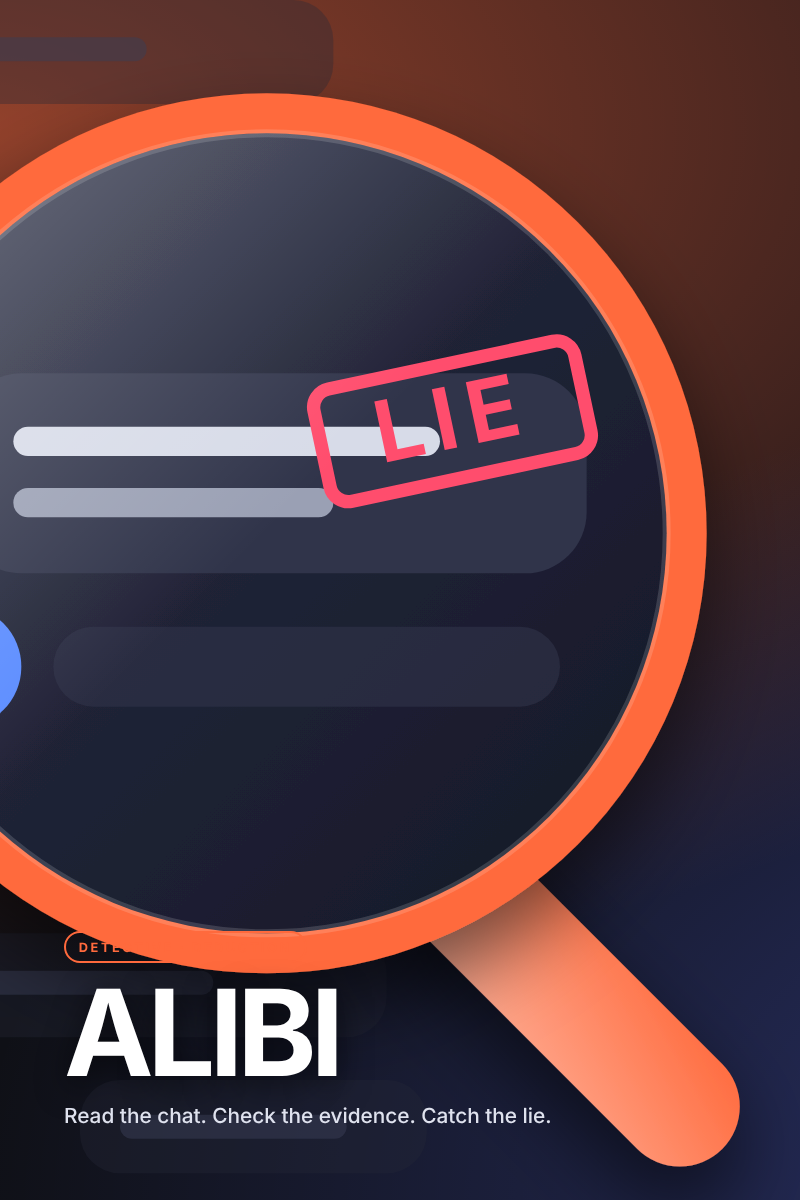
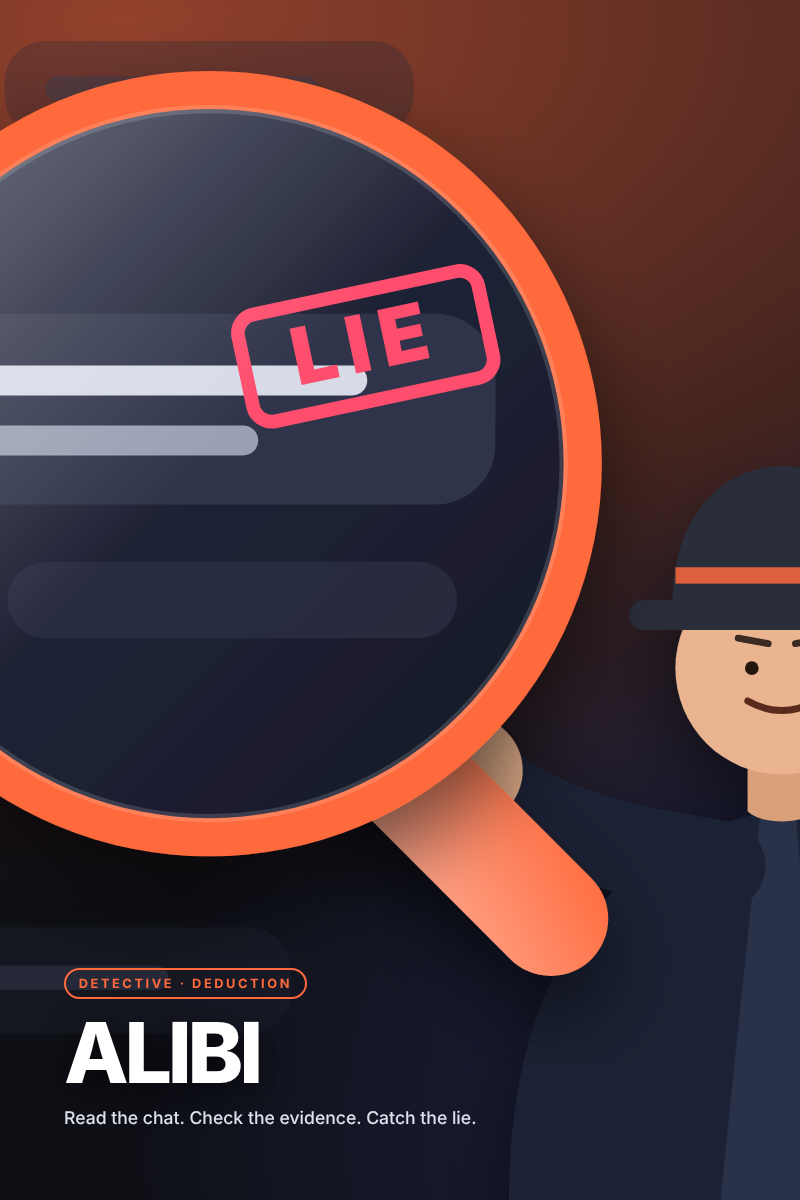
알리바이: 3차 리뷰 반영 — 760px 가로 배치, 안내 말풍선 채팅 상단 고정, 초안 사건 시간 오류 수정, 탐정 인물 썸네일, 얼굴 변형 확대, 결과 화면 범인 얼굴, 설명 20 cases
Claude-Session: https://claude.ai/code/session_01GtvmLdhHeiEetnrQffLSpt

diff --git a/games/alibi/js/ui.js b/games/alibi/js/ui.js
@@ -8,23 +8,33 @@ const AV = ['#ff6a3d', '#5b8cff', '#3ddc97', '#c66bff', '#ffcf5a', '#ff4d6d'];
 const avColor = (c, id) => AV[c.suspects.findIndex(s => s[0] === id) % AV.length];
 /* a flat vector face, chosen deterministically from the suspect id so the same person always looks the same */
 function faceSVG(id) {
-  let h = 7; for (const ch of id) h = (h * 131 + ch.charCodeAt(0)) >>> 0;
-  const pick = (n, k) => (h >>> k) % n;
-  const skin = ['#f3c9a8', '#e0a884', '#c68a62', '#9c6540', '#6f4529', '#f7d7c4'][pick(6, 2)];
-  const hairC = ['#1d1b1f', '#3b2a21', '#6b3f22', '#b5742f', '#d8b26e', '#8a8f9c', '#b23a3a', '#2c4a9a'][pick(8, 5)];
-  const bg = ['#ffd3c2', '#cfe0ff', '#cff5e6', '#ead9ff', '#fff0b8', '#ffd0da'][pick(6, 8)];
-  const hair = pick(6, 11), glasses = pick(3, 14) === 0, beard = pick(4, 16) === 0 && hair !== 5, mouth = pick(3, 18), brow = pick(2, 20);
-  const hairs = [
-    `<path d="M14 26c0-12 8-18 18-18s18 6 18 18v6c-6-6-12-8-18-8s-12 2-18 8z" fill="${hairC}"/>`,
-    `<path d="M12 30c0-14 9-22 20-22s20 8 20 22v14c-4 0-6-8-6-14-5 2-9 3-14 3s-9-1-14-3c0 6-2 14-6 14z" fill="${hairC}"/>`,
-    `<path d="M14 27c1-11 8-17 18-17s17 6 18 17c-4-4-10-6-18-6s-14 2-18 6z" fill="${hairC}"/><rect x="30" y="8" width="4" height="6" rx="2" fill="${hairC}"/>`,
-    `<path d="M11 30c0-15 9-24 21-24s21 9 21 24v10l-5-4v-8c-5 3-10 4-16 4s-11-1-16-4v8l-5 4z" fill="${hairC}"/>`,
-    `<path d="M14 24c3-10 10-14 18-14s15 4 18 14c-5-2-11-3-18-3s-13 1-18 3z" fill="${hairC}"/><circle cx="20" cy="26" r="5" fill="${hairC}"/><circle cx="44" cy="26" r="5" fill="${hairC}"/>`,
-    ``
-  ];
-  const mouths = ['<path d="M26 44q6 4 12 0" stroke="#5a2a1a" stroke-width="2" fill="none" stroke-linecap="round"/>', '<path d="M27 44h10" stroke="#5a2a1a" stroke-width="2" stroke-linecap="round"/>', '<path d="M26 45q6-3 12 0" stroke="#5a2a1a" stroke-width="2" fill="none" stroke-linecap="round"/>'][mouth];
-  const brows = brow ? '<path d="M22 30l8 1M34 31l8-1" stroke="#3a2a22" stroke-width="2" stroke-linecap="round"/>' : '<path d="M22 31l8-1M34 30l8 1" stroke="#3a2a22" stroke-width="2" stroke-linecap="round"/>';
-  return `<svg viewBox="0 0 64 64"><rect width="64" height="64" fill="${bg}"/><path d="M12 64c0-12 9-18 20-18s20 6 20 18z" fill="${hairC === '#d8b26e' ? '#4b5b8f' : '#3d4a6b'}"/><circle cx="32" cy="32" r="16" fill="${skin}"/>${beard ? `<path d="M18 36c2 10 8 14 14 14s12-4 14-14c-3 6-8 9-14 9s-11-3-14-9z" fill="${hairC}"/>` : ''}${hairs[hair]}${brows}<circle cx="26" cy="35" r="2" fill="#2b1d16"/><circle cx="38" cy="35" r="2" fill="#2b1d16"/>${mouths}${glasses ? '<g fill="none" stroke="#1d1b1f" stroke-width="1.6"><circle cx="26" cy="35" r="5"/><circle cx="38" cy="35" r="5"/><path d="M31 35h2"/></g>' : ''}</svg>`;
+  let h = 2166136261; for (const ch of id) { h ^= ch.charCodeAt(0); h = Math.imul(h, 16777619) >>> 0; }
+  const pick = (n, k) => ((h >>> k) ^ (h >>> (k + 11))) % n;
+  const skin = ['#f6d0b5', '#e9b48f', '#d19a6b', '#b57b4e', '#8d5a36', '#6a3f24', '#f9dccb'][pick(7, 1)];
+  const hairC = ['#1b1a1f', '#3a2a22', '#6a3f22', '#a86a2e', '#d9b36a', '#8d93a3', '#b43a3a', '#2b4aa0', '#4d8c57', '#e6e1d6'][pick(10, 4)];
+  const bg = ['#ffd3c2', '#cfe0ff', '#cff5e6', '#ead9ff', '#fff0b8', '#ffd0da', '#d7f3ff', '#e8ffd1'][pick(8, 7)];
+  const shape = pick(3, 10), hair = pick(9, 13), hat = pick(6, 16) === 0, glasses = pick(4, 19), beard = pick(5, 22), mouth = pick(5, 25), eyes = pick(3, 28), brow = pick(3, 30), extra = pick(5, 12);
+  const F = ['<ellipse cx="32" cy="33" rx="15" ry="16"/>', '<ellipse cx="32" cy="33" rx="14" ry="18"/>', '<rect x="17" y="16" width="30" height="34" rx="11"/>'][shape].replace('/>', ` fill="${skin}"/>`);
+  const H = [
+    `<path d="M15 28c0-13 8-19 17-19s17 6 17 19v5c-5-6-11-8-17-8s-12 2-17 8z" fill="${hairC}"/>`,
+    `<path d="M13 31c0-14 9-22 19-22s19 8 19 22v16c-4 0-6-9-6-15-4 3-8 4-13 4s-9-1-13-4c0 6-2 15-6 15z" fill="${hairC}"/>`,
+    `<path d="M15 27c1-11 8-17 17-17s16 6 17 17c-4-4-10-6-17-6s-13 2-17 6z" fill="${hairC}"/><path d="M30 9l4-4 2 5z" fill="${hairC}"/>`,
+    `<path d="M12 31c0-15 9-24 20-24s20 9 20 24v12l-6-3v-9c-4 3-9 4-14 4s-10-1-14-4v9l-6 3z" fill="${hairC}"/>`,
+    `<path d="M15 25c3-10 10-14 17-14s14 4 17 14c-5-2-11-3-17-3s-12 1-17 3z" fill="${hairC}"/><circle cx="21" cy="27" r="5" fill="${hairC}"/><circle cx="43" cy="27" r="5" fill="${hairC}"/>`,
+    `<path d="M16 26c0-10 7-16 16-16s16 6 16 16c-3-3-6-4-9-4-2 3-5 4-7 4s-5-1-7-4c-3 0-6 1-9 4z" fill="${hairC}"/>`,
+    `<path d="M14 30c0-14 8-21 18-21s18 7 18 21c0 6-2 10-4 12 1-5 0-10-2-14-3 3-7 4-12 4s-9-1-12-4c-2 4-3 9-2 14-2-2-4-6-4-12z" fill="${hairC}"/>`,
+    `<path d="M17 24c2-8 8-12 15-12s13 4 15 12c-4-2-9-3-15-3s-11 1-15 3z" fill="${hairC}"/>`,
+    ''
+  ][hair];
+  const HAT = hat ? `<path d="M12 27h40v4H12z" fill="#2a2d3a"/><path d="M18 27c0-10 6-14 14-14s14 4 14 14z" fill="#2a2d3a"/>` : '';
+  const E = ['<circle cx="26" cy="35" r="2.2" fill="#23170f"/><circle cx="38" cy="35" r="2.2" fill="#23170f"/>', '<path d="M23 35q3-3 6 0M35 35q3-3 6 0" stroke="#23170f" stroke-width="2" fill="none" stroke-linecap="round"/>', '<rect x="23.5" y="33.5" width="5" height="3" rx="1.5" fill="#23170f"/><rect x="35.5" y="33.5" width="5" height="3" rx="1.5" fill="#23170f"/>'][eyes];
+  const B = ['<path d="M22 30l8 1M34 31l8-1" stroke="#3a2a22" stroke-width="2" stroke-linecap="round"/>', '<path d="M22 31l8-1M34 30l8 1" stroke="#3a2a22" stroke-width="2.6" stroke-linecap="round"/>', '<path d="M22 30q4-3 8 0M34 30q4-3 8 0" stroke="#3a2a22" stroke-width="1.8" fill="none" stroke-linecap="round"/>'][brow];
+  const M = ['<path d="M26 44q6 4 12 0" stroke="#5a2a1a" stroke-width="2" fill="none" stroke-linecap="round"/>', '<path d="M27 44h10" stroke="#5a2a1a" stroke-width="2" stroke-linecap="round"/>', '<path d="M26 45q6-3 12 0" stroke="#5a2a1a" stroke-width="2" fill="none" stroke-linecap="round"/>', '<path d="M27 43q5 5 10 0z" fill="#5a2a1a"/>', '<path d="M28 44q4 2 8 0" stroke="#5a2a1a" stroke-width="2" fill="none" stroke-linecap="round"/><path d="M36 43l2-1" stroke="#5a2a1a" stroke-width="2" stroke-linecap="round"/>'][mouth];
+  const G = ['', '<g fill="none" stroke="#1d1b1f" stroke-width="1.6"><circle cx="26" cy="35" r="5"/><circle cx="38" cy="35" r="5"/><path d="M31 35h2"/></g>', '<g fill="none" stroke="#1d1b1f" stroke-width="1.6"><rect x="20.5" y="30.5" width="11" height="8" rx="2"/><rect x="32.5" y="30.5" width="11" height="8" rx="2"/><path d="M31.5 34h1"/></g>', ''][glasses];
+  const BD = ['', `<path d="M19 38c2 10 7 13 13 13s11-3 13-13c-3 6-8 8-13 8s-10-2-13-8z" fill="${hairC}"/>`, `<path d="M26 40q6 3 12 0v3q-6 3-12 0z" fill="${hairC}"/>`, '', ''][beard];
+  const X = ['', '<circle cx="17.5" cy="38" r="1.6" fill="#f2c94c"/>', '<g fill="#c9775f" opacity=".6"><circle cx="22" cy="40" r="1"/><circle cx="25" cy="41.5" r="1"/><circle cx="40" cy="41.5" r="1"/><circle cx="43" cy="40" r="1"/></g>', '<g fill="#ff9aa2" opacity=".5"><ellipse cx="23" cy="40" rx="3" ry="1.6"/><ellipse cx="41" cy="40" rx="3" ry="1.6"/></g>', `<path d="M44 30l3 7" stroke="${hairC}" stroke-width="2.4" stroke-linecap="round"/>`][extra];
+  const coat = ['#3d4a6b', '#4b5b8f', '#5e3b6b', '#2f6b5a', '#7a3b3b', '#6b5a2f'][pick(6, 2)];
+  return `<svg viewBox="0 0 64 64"><rect width="64" height="64" fill="${bg}"/><path d="M11 64c0-13 9-19 21-19s21 6 21 19z" fill="${coat}"/><path d="M28 46l4 6 4-6" fill="${bg}" opacity=".5"/>${F}${BD}${H}${HAT}${B}${E}${M}${G}${X}</svg>`;
 }
 const face = (e, id) => { e.innerHTML = faceSVG((R ? R.c.id + ':' : '') + id); return e; };
 
@@ -65,7 +75,7 @@ const A = {
 };
 function toast(text, cls) { const t = el('div', 'toast ' + (cls || ''), text); const box = $('toasts'); box.appendChild(t); while (box.children.length > 2) box.firstChild.remove(); setTimeout(() => t.remove(), 2600); }
 
-const isWide = () => matchMedia('(min-width:900px) and (min-aspect-ratio:1/1)').matches;
+const isWide = () => matchMedia('(min-width:760px) and (min-aspect-ratio:1/1)').matches;
 const SCREENS = ['title', 'list', 'case', 'result'];
 let screen = 'title';
 function show(id) { screen = id; for (const s of SCREENS) $(s).hidden = s !== id; }
@@ -116,8 +126,8 @@ function renderMeters() {
 setInterval(() => { if (R && R.state === 'play' && screen === 'case') $('timeMeter').textContent = fmtTime(elapsed()); }, 1000);
 function renderCase() {
   const c = R.c;
-  const chat = $('paneChat'); chat.innerHTML = '';
-  const brief = el('div', 'brief'); brief.append(el('b', null, tr('diff')[c.difficulty - 1] + ' · ' + c.place), c.intro); chat.appendChild(brief);
+  const chat = $('paneChat'), coachEl = $('coach'); chat.innerHTML = ''; chat.appendChild(coachEl);   /* the guide lives in the pane; keep it across re-renders */
+  const brief = el('div', 'brief' + (S.coachDone ? ' closed' : '')); brief.append(el('b', null, tr('diff')[c.difficulty - 1] + ' · ' + c.place), c.intro); brief.onclick = () => brief.classList.toggle('closed'); chat.appendChild(brief);
   c.chat.forEach((m, k) => {
     const row = el('button', 'msg' + (R.found.has(k) ? ' lie' : '') + (sel === k ? ' sel' : '')); row.type = 'button'; row.dataset.k = k;
     const av = face(el('div', 'av'), m.s);
@@ -150,6 +160,7 @@ let coach = -1;
 function renderCoach() {
   for (const e of document.querySelectorAll('.pulse')) e.classList.remove('pulse');
   const box = $('coach');
+  if (box.parentElement !== $('paneChat')) $('paneChat').prepend(box);
   if (coach < 0 || !R || R.state !== 'play') { box.hidden = true; return; }
   const steps = tr('coach'), c = R.c, firstLie = c.chat.findIndex(m => m.lie);
   if (coach === 2 && R.found.has(firstLie)) coach = 3;
@@ -160,7 +171,7 @@ function renderCoach() {
   box.hidden = false;
   if (coach === 0) document.querySelector('.tabs button[data-tab=evidence]').classList.add('pulse');
   if (coach === 1) document.querySelector('.tabs button[data-tab=chat]').classList.add('pulse');
-  if (coach === 2) { const row = document.querySelector(`.msg[data-k="${firstLie}"]`); if (row) row.classList.add('pulse'); }
+  if (coach === 2) { const row = document.querySelector(`.msg[data-k="${firstLie}"]`); if (row) { row.classList.add('pulse'); row.scrollIntoView({ block: 'center' }); } }
   if (coach === 4) $('btnAccuse').classList.add('pulse');
 }
 function openMarkSheet(k) {
@@ -234,6 +245,7 @@ function showSolved(stars) {
   A.win(); PORTAL.happy(); PORTAL.stop();
   if (coach >= 0) { S.coachDone = true; persist(); } coach = -1; $('coach').hidden = true;
   $('resBadge').textContent = tr('solved'); $('resTitle').textContent = R.c.title;
+  const rf = $('resFace'); rf.hidden = false; rf.innerHTML = faceSVG(R.c.id + ':' + R.c.culprit); rf.dataset.stamp = tr('confessed'); $('resName').textContent = nameOf(R.c, R.c.culprit) + ' · ' + (R.c.suspects.find(s => s[0] === R.c.culprit) || [])[2];
   const st = $('resStars'); st.innerHTML = ''; for (let k = 0; k < 3; k++) st.appendChild(el('span', k < stars ? '' : 'off', '★'));
   $('resBody').textContent = R.c.solve;
   const meta = $('resMeta'); meta.innerHTML = '';
@@ -247,7 +259,7 @@ function showSolved(stars) {
 }
 function showFailed() {
   A.lose(); PORTAL.stop(); $('coach').hidden = true;
-  $('resBadge').textContent = tr('failed'); $('resTitle').textContent = R.c.title; $('resStars').innerHTML = ''; $('resBody').textContent = tr('failedSub'); $('resMeta').innerHTML = ''; $('btnResShare').hidden = true;
+  $('resBadge').textContent = tr('failed'); $('resTitle').textContent = R.c.title; $('resStars').innerHTML = ''; $('resFace').hidden = true; $('resName').textContent = ''; $('resBody').textContent = tr('failedSub'); $('resMeta').innerHTML = ''; $('btnResShare').hidden = true;
   $('btnResNext').textContent = tr('retry'); $('btnResNext').onclick = () => { A.click(); const d = R.daily; PORTAL.midgame().then(() => beginCase(R.i, d)); };
   show('result');
 }

diff --git a/games/alibi/store/cover-src.html b/games/alibi/store/cover-src.html
@@ -1,0 +1,57 @@
+<!doctype html><html><head><meta charset="utf-8">
+<link rel="stylesheet" href="https://fonts.googleapis.com/css2?family=Inter:wght@500;700;800;900&display=swap">
+<style>
+html,body{margin:0;width:100vw;height:100vh;overflow:hidden;background:#0f1016;font-family:'Inter',sans-serif}
+svg{position:absolute;inset:0;width:100%;height:100%}
+.box{position:absolute;right:5%;top:44%;transform:translateY(-50%);text-align:right;width:38%}
+.badge{display:inline-block;font-size:var(--es);font-weight:700;letter-spacing:.2em;color:#ff6a3d;border:.3vmin solid #ff6a3d;padding:.8vmin 1.6vmin;border-radius:99px;margin-bottom:2vmin}
+h1{margin:0;font-weight:800;font-size:var(--fs);line-height:.9;letter-spacing:-.05em;color:#fff;text-shadow:0 1vmin 4vmin rgba(0,0,0,.6)}
+.sub{color:#dfe2ee;font-size:var(--ss);margin-top:2vmin;font-weight:500}
+body.portrait .box{right:8%;left:8%;top:auto;bottom:6%;transform:none;text-align:left;width:auto}
+body.icon .box{display:none}
+</style></head><body>
+<svg viewBox="0 0 1920 1080" preserveAspectRatio="xMidYMid slice" id="art">
+ <defs>
+  <radialGradient id="g1" cx="25%" cy="20%" r="60%"><stop offset="0" stop-color="#ff6a3d" stop-opacity=".55"/><stop offset="1" stop-color="#ff6a3d" stop-opacity="0"/></radialGradient>
+  <radialGradient id="g2" cx="85%" cy="95%" r="60%"><stop offset="0" stop-color="#5a6eff" stop-opacity=".45"/><stop offset="1" stop-color="#5a6eff" stop-opacity="0"/></radialGradient>
+  <linearGradient id="lens" x1="0" y1="0" x2="1" y2="1"><stop offset="0" stop-color="#2a2e45"/><stop offset="1" stop-color="#151827"/></linearGradient>
+  <linearGradient id="shine" x1="0" y1="0" x2="1" y2="1"><stop offset="0" stop-color="#fff" stop-opacity=".35"/><stop offset=".5" stop-color="#fff" stop-opacity="0"/></linearGradient>
+  <linearGradient id="handle" x1="0" y1="0" x2="1" y2="1"><stop offset="0" stop-color="#ffb199"/><stop offset="1" stop-color="#ff6a3d"/></linearGradient>
+  <filter id="sh" x="-20%" y="-20%" width="140%" height="140%"><feDropShadow dx="0" dy="30" stdDeviation="30" flood-color="#000" flood-opacity=".55"/></filter>
+  <clipPath id="lensClip"><circle cx="540" cy="540" r="260"/></clipPath>
+ </defs>
+ <rect width="1920" height="1080" fill="#0f1016"/><rect width="1920" height="1080" fill="url(#g1)"/><rect width="1920" height="1080" fill="url(#g2)"/>
+ <g opacity=".3" fill="#262938"><rect x="200" y="120" width="420" height="78" rx="30"/><rect x="390" y="230" width="300" height="70" rx="30"/><rect x="180" y="880" width="420" height="78" rx="30"/></g>
+ <g opacity=".45" fill="#3a3e55"><rect x="230" y="148" width="250" height="18" rx="9"/><rect x="420" y="256" width="200" height="18" rx="9"/><rect x="210" y="908" width="300" height="18" rx="9"/></g>
+ <!-- the detective: coat, head, hat, arm to the handle -->
+ <g filter="url(#sh)">
+  <path d="M760 1080c0-150 60-250 170-280l40-10c110 30 170 130 170 290z" fill="#1f2436"/>
+  <path d="M945 790l24-6 26 296h-80z" fill="#2b3148"/>
+  <path d="M935 735h50v60c-10 10-40 10-50 0z" fill="#d9a07a"/>
+  <circle cx="960" cy="690" r="78" fill="#e9b48f"/>
+  <path d="M880 640c0-60 36-98 80-98s80 38 80 98v10H880z" fill="#2a2d3a"/><rect x="848" y="640" width="224" height="22" rx="11" fill="#2a2d3a"/><rect x="882" y="616" width="156" height="12" fill="#ff6a3d" opacity=".85"/>
+  <path d="M935 714q25 14 50 0" stroke="#5a2a1a" stroke-width="5" fill="none" stroke-linecap="round"/>
+  <circle cx="938" cy="690" r="5" fill="#23170f"/><circle cx="982" cy="690" r="5" fill="#23170f"/>
+  <path d="M928 668l22 4M970 672l22-4" stroke="#3a2a22" stroke-width="5" stroke-linecap="round"/>
+  <path d="M915 835c-60-10-130-20-185-70" stroke="#1f2436" stroke-width="66" stroke-linecap="round" fill="none"/>
+  <circle cx="730" cy="765" r="40" fill="#e9b48f"/>
+ </g>
+ <g filter="url(#sh)"><rect x="690" y="690" width="84" height="250" rx="42" transform="rotate(-45 732 815)" fill="url(#handle)"/></g>
+ <g filter="url(#sh)"><circle cx="540" cy="540" r="288" fill="#ff6a3d"/><circle cx="540" cy="540" r="260" fill="url(#lens)"/></g>
+ <g clip-path="url(#lensClip)">
+  <rect x="330" y="430" width="420" height="140" rx="44" fill="#30344a"/>
+  <rect x="366" y="468" width="290" height="22" rx="11" fill="#d7dbe8"/><rect x="366" y="512" width="210" height="22" rx="11" fill="#9aa0b4"/>
+  <circle cx="330" cy="640" r="42" fill="#5b8cff"/><text x="330" y="655" text-anchor="middle" font-family="Inter" font-weight="800" font-size="40" fill="#fff">M</text>
+  <rect x="392" y="612" width="330" height="56" rx="28" fill="#30344a" opacity=".6"/>
+  <g transform="rotate(-12 650 455)"><rect x="565" y="415" width="180" height="80" rx="14" fill="none" stroke="#ff4d6d" stroke-width="10"/><text x="655" y="473" text-anchor="middle" font-family="Inter" font-weight="900" font-size="58" letter-spacing="8" fill="#ff4d6d">LIE</text></g>
+ </g>
+ <circle cx="540" cy="540" r="260" fill="url(#shine)"/>
+ <circle cx="540" cy="540" r="260" fill="none" stroke="#fff" stroke-opacity=".15" stroke-width="6"/>
+</svg>
+<div class="box"><div class="badge">DETECTIVE · DEDUCTION</div><h1 id="h">ALIBI</h1><div class="sub" id="s">Read the chat. Check the evidence. Catch the lie.</div></div>
+<script>const q=new URLSearchParams(location.search), m=Math.min(innerWidth, innerHeight*1.5), r=document.documentElement.style;
+r.setProperty('--fs',(m*.105)+'px'); r.setProperty('--ss',(m*.022)+'px'); r.setProperty('--es',(m*.016)+'px');
+const art=document.getElementById('art');
+if (innerHeight > innerWidth) { document.body.classList.add('portrait'); art.setAttribute('viewBox','230 200 900 880'); }
+if (q.get('icon')) { document.body.classList.add('icon'); art.setAttribute('viewBox','250 250 620 620'); }
+if (q.get('ko')) { document.getElementById('h').textContent='알리바이'; document.getElementById('s').textContent='채팅을 읽고, 증거와 대조하고, 거짓말을 잡아라.'; }</script></body></html>

diff --git a/games/alibi/style.css b/games/alibi/style.css
@@ -136,13 +136,15 @@ button{cursor:pointer;border:0;background:none;padding:0}
 @keyframes pulse{0%,100%{box-shadow:0 0 0 0 rgba(255,106,61,.55)}50%{box-shadow:0 0 0 8px rgba(255,106,61,0)}}
 .msg.pulse{animation:none}
 .msg.pulse .bub{border-color:var(--accent);animation:pulse 1.1s ease-in-out infinite}
-.coach{position:absolute;left:14px;right:14px;bottom:76px;padding:12px 14px;border-radius:14px;background:var(--accent);color:#fff;font-size:14px;line-height:1.4;box-shadow:0 12px 30px rgba(255,106,61,.4);animation:up .25s ease-out;z-index:4}
-.coach::after{content:"";position:absolute;left:50%;bottom:-7px;width:14px;height:14px;background:var(--accent);transform:translateX(-50%) rotate(45deg)}
+.coach{position:sticky;top:0;margin:0 0 10px;padding:10px 12px;border-radius:12px;background:var(--accent);color:#fff;font-size:13px;line-height:1.4;box-shadow:0 8px 24px rgba(255,106,61,.35);animation:up .25s ease-out;z-index:4}
 .coach b{font-weight:800}
 
 /* case brief pinned at the top of the chat; evidence pick in the sheet */
 .brief{padding:12px 14px;border-radius:14px;background:rgba(255,106,61,.1);border:1px solid rgba(255,106,61,.35);font-size:13px;line-height:1.5;margin:0 0 12px}
 .brief b{display:block;color:var(--accent);font-size:11px;letter-spacing:.14em;text-transform:uppercase;margin-bottom:4px}
+.brief.closed{white-space:nowrap;overflow:hidden;text-overflow:ellipsis;cursor:pointer}
+.brief.closed b{display:inline;margin-right:6px}
+@media (max-height:560px){.brief{display:none}}
 .pane-title{display:none;margin:0 0 8px 2px;font-size:12px;letter-spacing:.12em;text-transform:uppercase;color:var(--dim)}
 .evpick{display:grid;grid-template-columns:30px 1fr;gap:10px;align-items:start;text-align:left;padding:10px 12px;border-radius:12px;background:var(--card-2);border:1px solid var(--line);font-size:13px;line-height:1.4}
 .evpick:hover{border-color:var(--accent)}
@@ -152,8 +154,8 @@ button{cursor:pointer;border:0;background:none;padding:0}
 .cases.wide .daily{grid-column:1/-1}
 
 /* ---- landscape desktop: no phone frame; chat left, evidence and suspects right ---- */
-@media (min-width:900px) and (min-aspect-ratio:1/1){
-  #phone{width:min(1320px,100vw - 32px);height:min(860px,100vh - 32px);border-radius:28px}
+@media (min-width:760px) and (min-aspect-ratio:1/1){
+  #phone{width:min(1320px,100vw - 24px);height:min(860px,100vh - 24px);border-radius:28px}
   .status{display:none}
   .hero{max-width:640px;margin:0 auto;align-items:flex-start}
   .cases{max-width:860px;width:100%;margin:0 auto;display:grid;grid-template-columns:1fr 1fr;align-content:start;gap:10px}
@@ -168,11 +170,11 @@ button{cursor:pointer;border:0;background:none;padding:0}
   .pane.side[hidden]{display:block!important}
   .pane-title{display:block}
   #case .bottom{grid-column:1;grid-row:5;position:static;padding:10px 16px 16px;background:none}
-  .coach{left:16px;right:auto;width:min(520px,52%);bottom:84px}
-  .coach::after{left:40px}
+  #case{grid-template-rows:auto auto minmax(0,1fr) minmax(0,1fr) auto}
+  .res-head{flex-direction:row}
   .msg{max-width:720px}
 }
-@media (min-width:900px) and (min-aspect-ratio:1/1){
+@media (min-width:760px) and (min-aspect-ratio:1/1){
   .sheet{align-items:center;justify-content:center}
   .sheet-card{max-width:620px;border-radius:24px;padding:22px}
 }
@@ -187,3 +189,25 @@ button{cursor:pointer;border:0;background:none;padding:0}
 .msg.me .bub{background:var(--accent);color:#fff;border-top-left-radius:16px;border-top-right-radius:6px}
 .msg.accused .bub{border-color:var(--bad);background:rgba(255,77,109,.14)}
 .msg.confess .bub{border-color:var(--warn);background:rgba(255,207,90,.12)}
+
+/* result: the culprit's face, large */
+.res-head{display:flex;flex-direction:column;gap:14px;align-items:flex-start}
+.res-face{width:120px;height:120px;border-radius:50%;overflow:hidden;border:4px solid var(--bad);box-shadow:0 0 0 6px rgba(255,77,109,.18),0 20px 50px rgba(0,0,0,.5);position:relative;animation:starIn .6s cubic-bezier(.2,1.4,.4,1) both}
+.res-face svg{width:100%;height:100%;display:block}
+.res-face::after{content:attr(data-stamp);position:absolute;left:50%;bottom:6px;transform:translateX(-50%) rotate(-8deg);background:var(--bad);color:#fff;font-size:10px;font-weight:900;letter-spacing:.14em;padding:3px 8px;border-radius:6px}
+.res-name{color:var(--dim);font-size:14px;margin-top:4px}
+
+/* bigger faces where people are the point */
+.sus .av{width:56px;height:56px}
+.sus{grid-template-columns:56px 1fr}
+.pick .av{width:48px;height:48px}
+.pick{grid-template-columns:48px 1fr}
+
+/* short landscape windows: give the evidence more of the right column */
+@media (min-width:760px) and (min-aspect-ratio:1/1) and (max-height:600px){
+  #case{grid-template-rows:auto auto minmax(0,1.5fr) minmax(0,.5fr) auto}
+  #paneEvidence,#paneSuspects{padding-top:8px;padding-bottom:8px}
+  .fact{padding:8px 10px;font-size:13px;margin-bottom:6px}
+  .pane-title{margin-bottom:6px}
+  .top{height:44px}
+}

diff --git a/games/alibi/js/cases.js b/games/alibi/js/cases.js
@@ -58,7 +58,7 @@ const CASES = {
       intro: 'A competitor posted your unreleased product page an hour after the draft was finished. Four people had access.',
       suspects: [['ava', 'Ava', 'Design lead'], ['ben', 'Ben', 'Engineer'], ['cleo', 'Cleo', 'Product manager'], ['dev', 'Dev', 'Intern']],
       facts: [
-        ['📄', 'Document log: opened by Ben 22:10 (office) · Dev 22:31 (external IP) · Cleo 09:00 next morning.'],
+        ['📄', 'Document log: opened by Ben 22:10 (office) · Dev 22:31 (external IP) · Cleo 20:15 (office).'],
         ['📶', 'IT ticket: office Wi-Fi was down from 21:30 to 23:30.'],
         ['🌐', 'Competitor page went live at 23:00.'],
         ['🔑', 'Access list: Ben, Cleo, Dev. Ava was never added.']
@@ -68,7 +68,7 @@ const CASES = {
         { s: 'ben', t: '23:43', m: 'I did, around 10, on the office wifi. Just proofreading, then I left.', ev: 1, lie: 'The office Wi-Fi was down from 21:30. Ben opened it at 22:10 from the office, so he used another connection and is hiding something about how.' },
         { s: 'dev', t: '23:44', m: 'I never opened the draft. I don\'t even think I have access?', ev: [0, 3], lie: 'The log shows Dev opened it at 22:31 from an external IP, and the access list includes Dev.' },
         { s: 'ava', t: '23:45', m: 'I couldn\'t have. Nobody ever added me to that doc.' },
-        { s: 'cleo', t: '23:46', m: 'I only opened it this morning to add the pricing table.' },
+        { s: 'cleo', t: '23:46', m: 'I opened it at quarter past eight to add the pricing table, then went home.' },
         { s: 'ben', t: '23:47', m: 'Dev, you were still here at 10:30, I saw you at your desk.' },
         { s: 'dev', t: '23:48', m: 'I was packing up!!' }
       ],
@@ -191,7 +191,7 @@ const CASES = {
       intro: '초안을 끝낸 지 한 시간 만에 경쟁사가 우리 미공개 제품 페이지를 올렸다. 접근 권한이 있던 사람은 넷.',
       suspects: [['ava', '아바', '디자인 리드'], ['ben', '벤', '엔지니어'], ['cleo', '클레오', 'PM'], ['dev', '데브', '인턴']],
       facts: [
-        ['📄', '문서 기록: 벤 22:10 열람(사무실) · 데브 22:31 열람(외부 IP) · 클레오 다음 날 09:00.'],
+        ['📄', '문서 기록: 벤 22:10 열람(사무실) · 데브 22:31 열람(외부 IP) · 클레오 20:15 열람(사무실).'],
         ['📶', 'IT 티켓: 사무실 와이파이 21:30–23:30 먹통.'],
         ['🌐', '경쟁사 페이지 게시: 23:00.'],
         ['🔑', '접근 권한: 벤, 클레오, 데브. 아바는 추가된 적 없음.']
@@ -201,7 +201,7 @@ const CASES = {
         { s: 'ben', t: '23:43', m: '저요, 10시쯤 사무실 와이파이로요. 오타만 보고 퇴근했어요.', ev: 1, lie: '사무실 와이파이는 21:30부터 끊겨 있었다. 벤은 22:10에 사무실에서 열었으니 다른 연결을 썼고, 그걸 숨기고 있다.' },
         { s: 'dev', t: '23:44', m: '저는 초안 연 적 없어요. 저한테 권한이 있긴 한가요?', ev: [0, 3], lie: '기록에 데브가 22:31에 외부 IP로 열었다고 남아 있고, 권한 목록에도 데브가 있다.' },
         { s: 'ava', t: '23:45', m: '저는 못 열어요. 그 문서에 저 추가된 적이 없잖아요.' },
-        { s: 'cleo', t: '23:46', m: '저는 오늘 아침에 가격표 넣으려고 연 게 전부예요.' },
+        { s: 'cleo', t: '23:46', m: '저는 8시 15분에 가격표 넣으려고 열었다가 바로 퇴근했어요.' },
         { s: 'ben', t: '23:47', m: '데브, 10시 반에도 자리에 있었잖아요. 제가 봤어요.' },
         { s: 'dev', t: '23:48', m: '짐 싸고 있었어요!!' }
       ],

diff --git a/games/alibi/js/i18n.js b/games/alibi/js/i18n.js
@@ -31,7 +31,7 @@ const STR = {
     result: (s, m) => `알리바이 ALIBI · 별 ${s}/${m} · 모든 사건 해결`,
     daily: '오늘의 사건', dailyDone: (st, t) => `오늘 해결 · ${'★'.repeat(st)} · ${t}`, dailySub: '매일 새 사건. 시간은 기록돼요.', time: '시간', claims: '이 사람의 주장', noClaims: '아직 한 말이 없어요',
     shareCase: (title, st, t) => `알리바이 ALIBI · ${title} · ${'★'.repeat(st)}${'☆'.repeat(3 - st)} · ${t}`, streak: n => `${n}일 연속`,
-    music: '배경 음악', accuseLine: n => `범인은 ${n}, 당신이에요.`, me: '탐정', pickEv: '어느 증거와 어긋나나요?', wrongEv: '수상한 말은 맞아요. 하지만 어긋나는 증거는 그게 아니에요.', evidenceFirst: '증거', chatFirst: '채팅',
+    music: '배경 음악', confessed: '자백', brief: '사건 개요', accuseLine: n => `범인은 ${n}, 당신이에요.`, me: '탐정', pickEv: '어느 증거와 어긋나나요?', wrongEv: '수상한 말은 맞아요. 하지만 어긋나는 증거는 그게 아니에요.', evidenceFirst: '증거', chatFirst: '채팅',
     coach: ['먼저 <b>증거</b> 탭을 열어 사실을 읽어 보세요.', '다시 <b>채팅</b>으로 돌아오세요.', n => `${n}의 말이 증거와 어긋나요. 그 말을 누르고, <b>어긋나는 증거</b>를 고르세요.`, '잘했어요. 남은 거짓말 하나는 직접 찾아보세요.', '거짓말을 다 찾았어요. <b>범인 지목</b>을 누르세요.']
   },
   en: {
@@ -49,7 +49,7 @@ const STR = {
     result: (s, m) => `ALIBI · ${s}/${m} stars · all cases closed`,
     daily: 'Today\'s case', dailyDone: (st, t) => `Solved today · ${'★'.repeat(st)} · ${t}`, dailySub: 'A new case every day. Your time counts.', time: 'Time', claims: 'What they claim', noClaims: 'Nothing said yet',
     shareCase: (title, st, t) => `ALIBI · ${title} · ${'★'.repeat(st)}${'☆'.repeat(3 - st)} · ${t}`, streak: n => `${n}-day streak`,
-    music: 'Music', accuseLine: n => `It was you, ${n}.`, me: 'Detective', pickEv: 'Which evidence contradicts it?', wrongEv: 'Right message, wrong evidence. Something else contradicts it.', evidenceFirst: 'Evidence', chatFirst: 'Chat',
+    music: 'Music', confessed: 'CONFESSED', brief: 'Case brief', accuseLine: n => `It was you, ${n}.`, me: 'Detective', pickEv: 'Which evidence contradicts it?', wrongEv: 'Right message, wrong evidence. Something else contradicts it.', evidenceFirst: 'Evidence', chatFirst: 'Chat',
     coach: ['Open the <b>Evidence</b> tab first and read the facts.', 'Now go back to the <b>Chat</b>.', n => `What ${n} says doesn't match the evidence. Tap that message, then <b>pick the evidence it contradicts</b>.`, 'Nice. Find the remaining lie on your own.', 'All lies found. Press <b>Accuse</b>.']
   }
 };

diff --git a/games/alibi/js/cases-f.js b/games/alibi/js/cases-f.js
@@ -27,7 +27,7 @@ CASES.en.push(
     solve: 'Pam signed out the master key from 18:25 to 18:40 for a locked-out member nobody can name, and her own card bought a drink inside the locker room at 18:31 while she swore she was at the desk. Nell lied about never using the locker room, but the turnstile has her out by 18:08, Vic saw the watch at 18:09, and roll call put her on a bike at 18:45.'
   },
   {
-    id: 'drone', title: 'Through the Glass', place: 'Orchard Lane greenhouse · 11:00 pm', difficulty: 3,
+    id: 'drone', title: 'Through the Glass', place: 'Orchard Lane greenhouse · 11:00 pm', difficulty: 2,
     intro: 'A drone came through the greenhouse roof at twenty past ten. The registration traces to one person. The flight log, the club paperwork and a parking receipt tell a longer story.',
     suspects: [['gil', 'Gil', 'Hobbyist, registered owner'], ['ren', 'Ren', 'Real-estate photographer'], ['jay', 'Jay', 'Teenager'], ['vera', 'Vera', 'Greenhouse owner\'s rival']],
     facts: [
@@ -79,7 +79,7 @@ CASES.ko.push(
     solve: '팸은 아무도 이름을 모르는 "잠긴 회원"을 이유로 18:25부터 18:40까지 마스터키를 빌렸고, 프런트에 있었다던 18:31에 본인 카드로 탈의실 안에서 음료를 샀다. 넬은 탈의실을 안 썼다고 거짓말했지만, 회전문 기록상 18:08에 나갔고 빅은 18:09에 시계를 봤으며 18:45 점호 때 넬은 자전거 위에 있었다.'
   },
   {
-    id: 'drone', title: '유리를 뚫고', place: '오처드 레인 온실 · 오후 11:00', difficulty: 3,
+    id: 'drone', title: '유리를 뚫고', place: '오처드 레인 온실 · 오후 11:00', difficulty: 2,
     intro: '10시 20분쯤 드론 하나가 온실 지붕을 뚫고 떨어졌다. 등록 정보는 한 사람을 가리킨다. 비행 기록과 동호회 서류, 주차 영수증은 더 긴 이야기를 한다.',
     suspects: [['gil', '길', '취미 비행, 등록 소유자'], ['ren', '렌', '부동산 사진가'], ['jay', '제이', '10대'], ['vera', '베라', '온실 주인의 경쟁자']],
     facts: [

diff --git a/games/alibi/index.html b/games/alibi/index.html
@@ -4,7 +4,7 @@
 <meta charset="utf-8">
 <meta name="viewport" content="width=device-width,initial-scale=1,maximum-scale=1,user-scalable=no,viewport-fit=cover">
 <title>ALIBI</title>
-<meta name="description" content="Deduction game: read a group chat, compare it with the evidence, catch the lies and accuse the culprit. 16+ cases plus a daily case, 3–5 minutes each.">
+<meta name="description" content="Deduction game: read a group chat, compare it with the evidence, catch the lies and accuse the culprit. 20 cases plus a daily case, 3–5 minutes each.">
 <link rel="preconnect" href="https://fonts.googleapis.com">
 <link rel="preconnect" href="https://fonts.gstatic.com" crossorigin>
 <link rel="stylesheet" href="https://fonts.googleapis.com/css2?family=Inter:wght@400;500;600;700;800&display=swap">
@@ -47,8 +47,8 @@
   <!-- result -->
   <section id="result" class="screen" hidden>
     <div class="hero">
-      <div class="badge" id="resBadge"></div>
-      <h2 id="resTitle"></h2>
+      <div class="res-head"><div class="res-face" id="resFace" hidden></div><div><div class="badge" id="resBadge"></div>
+      <h2 id="resTitle"></h2><div class="res-name" id="resName"></div></div></div>
       <div class="stars" id="resStars"></div>
       <p class="lede" id="resBody"></p>
       <div class="res-meta" id="resMeta"></div>

diff --git a/games/alibi/README.md b/games/alibi/README.md
@@ -9,7 +9,7 @@
 - **용의자 탭**: 각 사람의 주장을 한눈에, 찾은 거짓말은 초록색
 - **기록 복사**: 결과 화면에서 공유 문구 복사
 - **바로 플레이**: 처음 접속하면 클릭 없이 1번 사건이 열리고, 다시 오면 사건 목록으로 갑니다. 사건 소개는 채팅 맨 위에 고정
-- **가로 화면**: PC 가로 화면에서는 휴대폰 프레임 대신 채팅(왼쪽)과 증거·용의자(오른쪽)를 나란히 보여 줍니다
+- **가로 화면**: 가로형 창(760px 이상)에서는 휴대폰 프레임 대신 채팅(왼쪽)과 증거·용의자(오른쪽)를 나란히 보여 줍니다
 - **용의자 얼굴**: 사건과 사람으로 정해지는 벡터 얼굴(머리 모양·피부·안경·수염 조합). 같은 사람은 같은 얼굴
 - **지목 연출**: 범인을 지목하면 채팅에서 탐정의 한마디 → 범인의 반박 → 결정적 증거 → 자백(동기) → 마무리가 순서대로 이어집니다. 대사는 `js/outro-1.js`, `outro-2.js`
 - **사건 순서**: `js/i18n.js`의 `ORDER`. 튜토리얼 다음에 반전이 큰 사건(길드 금고, 1204호, 유출된 에피소드)을 앞에 둡니다
@@ -42,7 +42,7 @@
 | 15 | 열린 대문 | 쉬움 | 2 | 자기 코드로 연 문 |
 | 16 | 블루 아워 | 어려움 | 4 | 암전 2분, 거짓말 가장 많이 한 사람은 범인이 아님 |
 | 17 | 22번 사물함 | 보통 | 2 | 마스터키 대장과 자판기 영수증 |
-| 18 | 유리를 뚫고 | 어려움 | 3 | 등록 소유자는 빌려준 사람 |
+| 18 | 유리를 뚫고 | 보통 | 3 | 등록 소유자는 빌려준 사람 |
 | 19 | 7번 방 | 쉬움 | 2 | 휴대폰 위치와 교통카드 |
 | 20 | DROP DATABASE | 어려움 | 3 | 공용 계정 비밀번호를 받은 사람 |
 

diff --git a/games/alibi/HANDOFF.md b/games/alibi/HANDOFF.md
@@ -24,6 +24,8 @@
 
 **확인 못 한 것**: 진짜 CrazyGames SDK(이 환경에서 접속 불가), 사람이 직접 한 플레이.
 
+**세 번째 리뷰 반영**: 가로 배치 기준을 760px 가로형으로 낮춤(821×462 노트북 창도 가로 배치), 안내 말풍선을 채팅 맨 위 고정으로 옮겨 메시지를 가리지 않음, '유출된 초안' 시간 오류 수정(클레오 20:15), 썸네일에 탐정 인물 추가, 얼굴 생성기 변형 확대(얼굴형·머리 9종·모자·안경 3종·수염·주근깨 등), 결과 화면에 범인 얼굴 크게, 설명 '20 cases'. **남은 것**: 새 사건(22번 사물함, 드론)이 1분 안에 풀림 — 거짓말과 증거가 1:1인 구조는 사건을 다시 써야 고쳐짐. 드론은 난이도 표기를 '보통'으로 낮춤.
+
 **두 번째 리뷰에서 남은 지적(이 컨셉으로는 못 고치는 것)**: 글을 읽어야 하는 게임이라 10대 중심 포털에서 이탈이 크고 광고 자리가 적어 수익성이 낮음. 앞쪽 쉬운 사건의 거짓말이 증거와 1:1로 바로 맞닿아 추리보다 대조에 가까움(사진 단서, 엇갈리는 증거 같은 변주는 뒤쪽 사건에만 있음).
 
 ## 다음 단계
